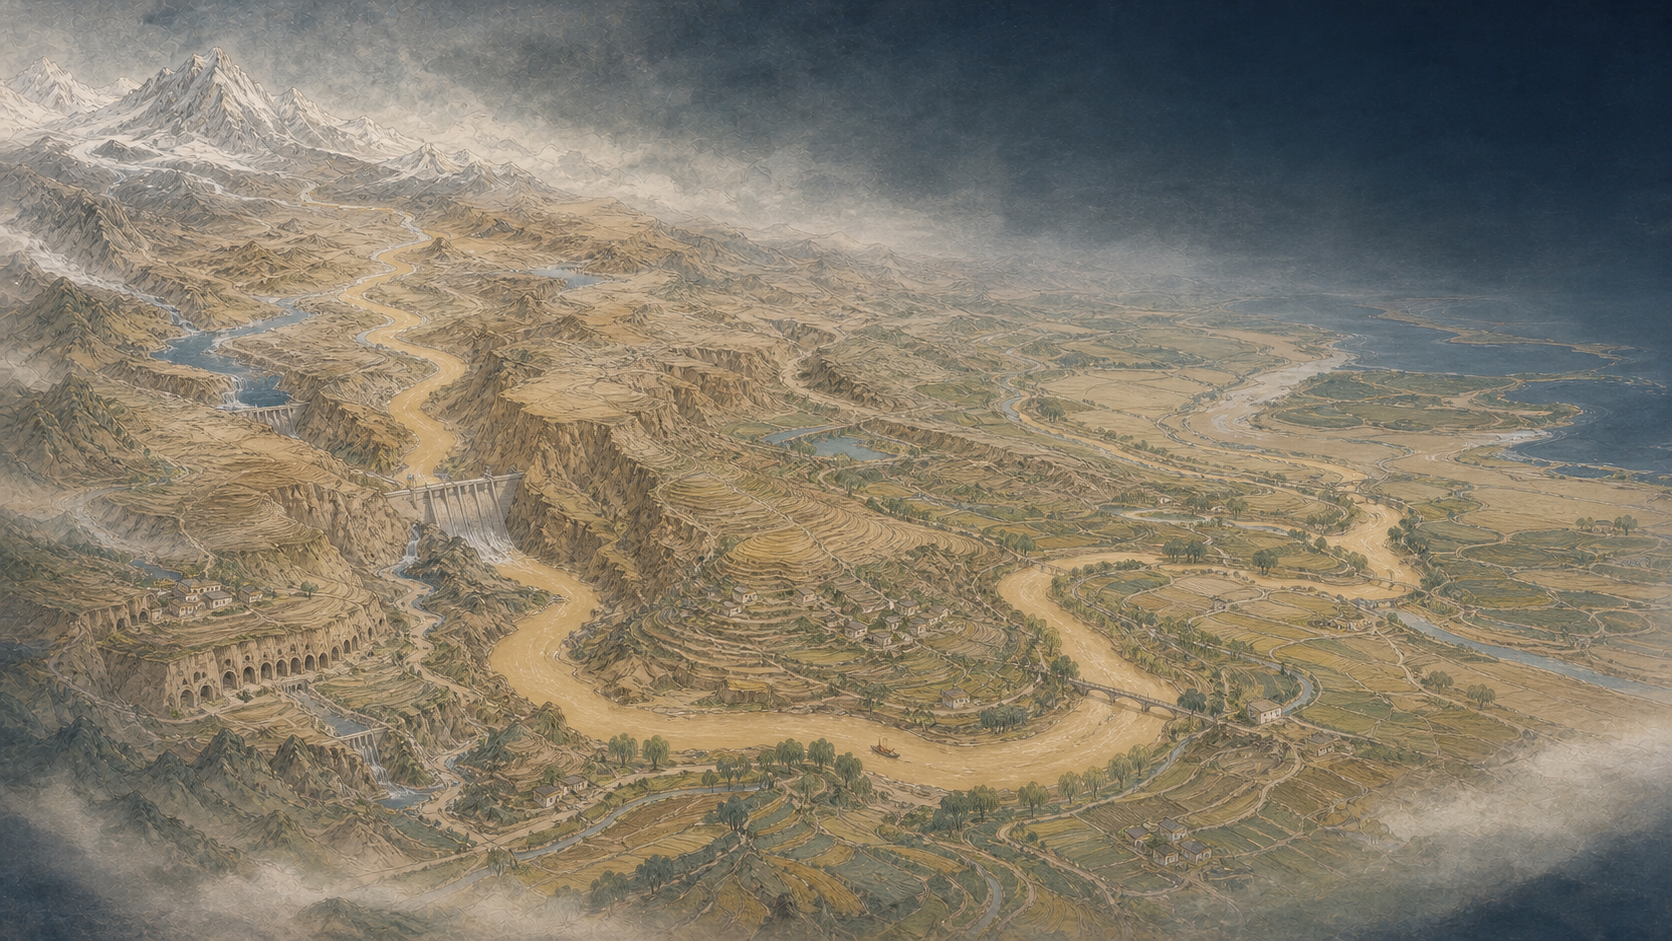
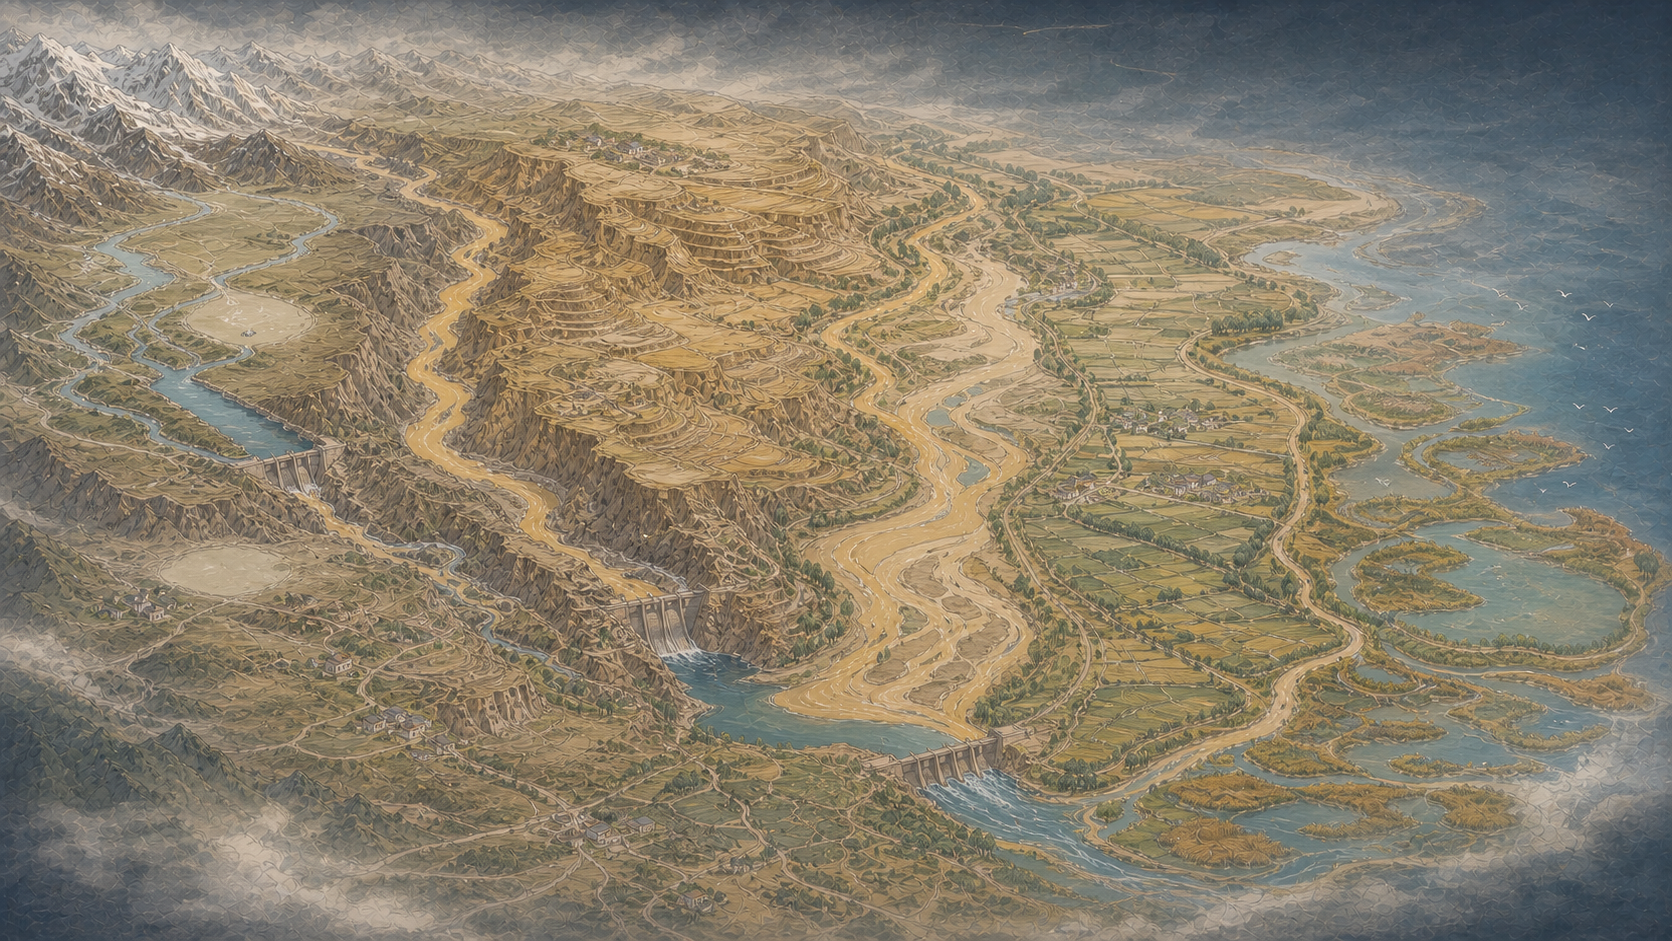
feat: align yellow river with new atlas

diff --git a/src/data/yellowRiverNodes.ts b/src/data/yellowRiverNodes.ts
@@ -4,6 +4,7 @@ import type { YellowRiverNode, YellowRiverNodeId } from '@/types/basin';
 const yellowRiverNodes: YellowRiverNode[] = [
   {
     id: 'sanjiangyuan',
+    sequence: 1,
     name: '三江源国家公园黄河源园区',
     shortName: '三江源',
     type: 'ecological',
@@ -15,11 +16,12 @@ const yellowRiverNodes: YellowRiverNode[] = [
     ecologicalImpacts: ['稳定源区生态过程，有助于维持河流补给与径流节律', '保护关键栖息地，为高原生物多样性保留连续空间'],
     keywords: ['黄河源园区', '高寒草地', '湿地保护', '水源涵养', '生态完整性'],
     significance: '这是黄河水资源形成和生态安全的源头节点，提示治黄必须从源头保护开始。',
-    position: { x: 284, y: 208, labelOffsetX: -28, labelOffsetY: 56 },
+    position: { x: 251, y: 226, labelOffsetX: -44, labelOffsetY: -26 },
     isAvailable: true,
   },
   {
     id: 'longyangxia',
+    sequence: 2,
     name: '龙羊峡水电站',
     shortName: '龙羊峡',
     type: 'engineering',
@@ -33,11 +35,12 @@ const yellowRiverNodes: YellowRiverNode[] = [
     governanceMeasures: ['依托多年调节库容实施削丰补枯，平衡年内与跨年度来水。', '通过水库调度统筹防洪、供水、发电和生态流量，并为下游水沙联合调度提供动力。'],
     ecologicalImpacts: ['形成高峡平湖及湿地、草原、水域复合生态景观。', '在保障生态基流的调度中，为下游河道维持稳定水源。'],
     culturalMeaning: '工程利用高原深切峡谷的自然条件，通过因地制宜、削丰补枯的调度方式，体现了尊重河流节律、因势利导的治水智慧。',
-    position: { x: 372, y: 324, labelOffsetX: -37, labelOffsetY: 56 },
+    position: { x: 301, y: 471, labelOffsetX: -48, labelOffsetY: -28 },
     isAvailable: true,
   },
   {
     id: 'loess-plateau',
+    sequence: 3,
     name: '黄土高原水土流失区',
     shortName: '黄土高原',
     type: 'ecological',
@@ -46,24 +49,12 @@ const yellowRiverNodes: YellowRiverNode[] = [
     summary: '松散黄土、集中降雨、坡地利用和植被变化造成强烈侵蚀，大量泥沙由坡面和沟壑进入黄河。',
     keywords: ['水土流失', '坡面侵蚀', '沟壑侵蚀', '泥沙来源', '退耕还林还草'],
     significance: '这是塑造黄河高含沙特征的核心生态节点。',
-    position: { x: 446, y: 415, labelOffsetX: -58, labelOffsetY: -28 },
-    isAvailable: true,
-  },
-  {
-    id: 'sediment-corridor',
-    name: '泥沙输送通道',
-    shortName: '泥沙通道',
-    type: 'ecological',
-    regionId: 'middle',
-    locationDescription: '黄河中游向下游过渡的主要水沙输移河段',
-    summary: '大量泥沙随水流向下游输移，并通过冲刷、淤积和河道变化持续影响下游河床与洪水风险。',
-    keywords: ['水沙输移', '河道淤积', '冲淤变化', '洪水风险', '分级调控'],
-    significance: '这是连接中游泥沙生成与下游风险累积的过程节点。',
-    position: { x: 540, y: 548, labelOffsetX: -48, labelOffsetY: 53 },
+    position: { x: 652, y: 339, labelOffsetX: -66, labelOffsetY: -28 },
     isAvailable: true,
   },
   {
     id: 'sanmenxia',
+    sequence: 4,
     name: '三门峡工程',
     shortName: '三门峡',
     type: 'engineering',
@@ -77,11 +68,26 @@ const yellowRiverNodes: YellowRiverNode[] = [
     governanceMeasures: ['通过增建排沙设施、改造底孔等方式提高泄流排沙能力。', '确立“蓄清排浑”运行方式：非汛期蓄水兴利，汛期降低水位泄洪排沙。', '与小浪底及支流水库联合调度，为调水调沙提供水动力。'],
     ecologicalImpacts: ['库区河道冲淤逐步趋于动态平衡，潼关高程得到一定控制。', '库区形成较大水域与湿地，为白天鹅等鸟类提供栖息环境。'],
     culturalMeaning: '三门峡的运行演进说明，复杂河流治理需要在实践中认识规律、修正方案；从“拦”到“排”的转变，是知行合一与尊重自然的具体体现。',
-    position: { x: 670, y: 596, labelOffsetX: -35, labelOffsetY: -30 },
+    position: { x: 719, y: 612, labelOffsetX: -50, labelOffsetY: -30 },
+    isAvailable: true,
+  },
+  {
+    id: 'sediment-corridor',
+    sequence: 5,
+    name: '泥沙输送通道',
+    shortName: '泥沙通道',
+    type: 'ecological',
+    regionId: 'middle',
+    locationDescription: '黄河中游向下游过渡的主要水沙输移河段',
+    summary: '大量泥沙随水流向下游输移，并通过冲刷、淤积和河道变化持续影响下游河床与洪水风险。',
+    keywords: ['水沙输移', '河道淤积', '冲淤变化', '洪水风险', '分级调控'],
+    significance: '这是连接中游泥沙生成与下游风险累积的过程节点。',
+    position: { x: 953, y: 480, labelOffsetX: -70, labelOffsetY: -28 },
     isAvailable: true,
   },
   {
     id: 'xiaolangdi',
+    sequence: 6,
     name: '小浪底水利枢纽',
     shortName: '小浪底',
     type: 'engineering',
@@ -96,11 +102,12 @@ const yellowRiverNodes: YellowRiverNode[] = [
     ecologicalImpacts: ['下游主河槽冲刷下切、行洪能力提升，河势趋于稳定。', '持续生态补水有助于维持下游不断流，并促进河口湿地修复与生物多样性改善。', '工程调度对水生态存在复杂影响，仍需要持续监测与精细化调度。'],
     culturalMeaning: '小浪底不是单纯拦蓄洪水，而是在理解水沙规律的基础上利用和塑造洪水过程，体现了统筹兼顾、因势利导的人水和谐实践。',
     // 小浪底位于中游末端、进入下游平原前的控制河段。
-    position: { x: 777, y: 620, labelOffsetX: 20, labelOffsetY: 56 },
+    position: { x: 1053, y: 735, labelOffsetX: -38, labelOffsetY: -30 },
     isAvailable: true,
   },
   {
     id: 'yellow-river-delta-wetland',
+    sequence: 7,
     name: '黄河三角洲国家级自然保护区',
     shortName: '黄河三角洲湿地',
     type: 'ecological',
@@ -112,7 +119,7 @@ const yellowRiverNodes: YellowRiverNode[] = [
     ecologicalImpacts: ['河海连通改善后，湿地生境与食物链更具恢复条件', '稳定的水沙与潮汐过程有助于维持河口湿地的演变活力'],
     keywords: ['黄河入海口', '新生湿地', '候鸟栖息地', '河海连通', '生态补水'],
     significance: '它把上中游的水沙调控结果延伸到河口，展示黄河治理最终如何影响海岸湿地与生物多样性。',
-    position: { x: 1195, y: 482, labelOffsetX: -62, labelOffsetY: 56 },
+    position: { x: 1471, y: 659, labelOffsetX: -122, labelOffsetY: -28 },
     isAvailable: true,
   },
 ];

diff --git a/src/pages/YellowRiver/YellowRiver.css b/src/pages/YellowRiver/YellowRiver.css
@@ -224,13 +224,7 @@
 /* 黄河图册舞台：保留共用详情与长江样式，仅覆盖黄河子页。 */
 .yellow-river-page--atlas {
   padding: 0;
-  background:
-    linear-gradient(90deg, rgb(5 17 24 / 14%), transparent 28%, transparent 72%, rgb(4 16 23 / 20%)),
-    linear-gradient(0deg, rgb(4 16 22 / 18%), transparent 42%),
-    var(--yellow-river-page-background);
-  background-position: center;
-  background-size: cover;
-  background-attachment: fixed;
+  background: #10262e;
 }
 
 .yellow-river-page--atlas .yellow-river-page__header {
@@ -271,25 +265,31 @@
 
 .yellow-river-page--atlas .yellow-river-map--atlas {
   width: 100%;
+  aspect-ratio: 1672 / 941;
   max-height: none;
-  overflow: visible;
+  overflow: hidden;
   border: 0;
   border-radius: 0;
-  background: transparent;
+  background: #162f36;
   box-shadow: none;
 }
 
-.yellow-river-map--atlas svg { overflow: visible; filter: drop-shadow(0 .8rem 1.3rem rgb(20 12 3 / 18%)); }
+.yellow-river-map--atlas svg { overflow: hidden; filter: drop-shadow(0 .8rem 1.3rem rgb(20 12 3 / 18%)); }
+.yellow-river-map--atlas .yellow-river-map__background { pointer-events: none; }
+.yellow-river-map--atlas .yellow-river-map__background-shade {
+  pointer-events: none;
+  fill: url(#yellow-river-atlas-shade);
+}
 .yellow-river-map--atlas .yellow-river-map__waterway path,
 .yellow-river-map--atlas .yellow-river-map__atlas-region-water { fill: none; stroke-linecap: round; stroke-linejoin: round; }
-.yellow-river-map--atlas .yellow-river-map__waterway-bed { stroke: rgb(86 51 19 / 38%); stroke-width: 24; }
-.yellow-river-map--atlas .yellow-river-map__waterway-body { stroke: rgb(203 151 64 / 72%); stroke-width: 15; }
-.yellow-river-map--atlas .yellow-river-map__waterway-glint { stroke: rgb(255 229 160 / 74%); stroke-width: 3.2; stroke-dasharray: 7 13; }
+.yellow-river-map--atlas .yellow-river-map__waterway-bed { stroke: rgb(95 59 22 / 10%); stroke-width: 12; }
+.yellow-river-map--atlas .yellow-river-map__waterway-body { stroke: rgb(209 159 75 / 27%); stroke-width: 6; }
+.yellow-river-map--atlas .yellow-river-map__waterway-glint { stroke: rgb(255 239 194 / 36%); stroke-width: 1; }
 .yellow-river-map__atlas-region { cursor: pointer; outline: none; color: #efc76f; }
-.yellow-river-map__atlas-region-hit-area { fill: none; stroke: transparent; stroke-width: 44; }
-.yellow-river-map__atlas-region-water { stroke: transparent; stroke-width: 19; opacity: 0; transition: opacity 180ms ease, stroke 180ms ease, filter 180ms ease; }
-.yellow-river-map__atlas-region.is-visible .yellow-river-map__atlas-region-water { stroke: currentColor; opacity: .76; filter: drop-shadow(0 0 7px currentColor); }
-.yellow-river-map__atlas-region.is-selected .yellow-river-map__atlas-region-water { opacity: .94; }
+.yellow-river-map__atlas-region-hit-area { fill: none; stroke: transparent; stroke-width: 52; }
+.yellow-river-map__atlas-region-water { stroke: transparent; stroke-width: 11; opacity: 0; transition: opacity 180ms ease, stroke 180ms ease; }
+.yellow-river-map__atlas-region.is-visible .yellow-river-map__atlas-region-water { stroke: currentColor; opacity: .34; }
+.yellow-river-map__atlas-region.is-selected .yellow-river-map__atlas-region-water { opacity: .48; }
 .yellow-river-map__atlas-region:focus-visible .yellow-river-map__atlas-region-water { stroke: #fff0b7; opacity: 1; }
 .yellow-river-map__atlas-region .yellow-river-map__region-label { fill: rgb(249 232 182 / 84%); stroke: rgb(48 28 8 / 72%); stroke-width: 4px; font-size: 25px; }
 .yellow-river-map__atlas-region .yellow-river-map__region-label { pointer-events: all; cursor: pointer; }

diff --git a/src/pages/YellowRiver/YellowRiver.tsx b/src/pages/YellowRiver/YellowRiver.tsx
@@ -1,6 +1,5 @@
 import { useMemo, useState } from 'react';
 import { Link, useLocation } from 'react-router-dom';
-import type { CSSProperties } from 'react';
 
 import { yellowRiverRegions } from '@/data/yellowRiverRegions';
 import { yellowRiverGovernanceNodeIds, yellowRiverNodes } from '@/data/yellowRiverNodes';
@@ -11,8 +10,6 @@ import YellowRiverMap from './components/YellowRiverMap';
 import YellowRiverNodeDetailPanel from './components/YellowRiverNodeDetailPanel';
 import YellowRiverGovernancePanel from './components/YellowRiverGovernancePanel';
 import YellowRiverSpiritDialogue from './components/YellowRiverSpiritDialogue';
-import yellowRiverBackground from '@/assets/images/basins/yellow-river-background.png';
-
 import './YellowRiver.css';
 
 function hasDetailContent(node: YellowRiverNode): boolean {
@@ -29,7 +26,7 @@ function hasDetailContent(node: YellowRiverNode): boolean {
 const detailNodes = yellowRiverNodes
   .filter(hasDetailContent)
   .slice()
-  .sort((firstNode, secondNode) => firstNode.position.x - secondNode.position.x);
+  .sort((firstNode, secondNode) => firstNode.sequence - secondNode.sequence);
 
 const governanceNodes = yellowRiverGovernanceNodeIds
   .map((nodeId) => detailNodes.find((node) => node.id === nodeId))
@@ -136,12 +133,8 @@ function YellowRiver() {
   const governanceLevel = selectedDetailNode
     ? governanceDataSource.getQuestionLevelConfig(selectedDetailNode.id)
     : null;
-  const pageStyle = {
-    '--yellow-river-page-background': `url(${yellowRiverBackground})`,
-  } as CSSProperties;
-
   return (
-    <section className="yellow-river-page yellow-river-page--atlas" style={pageStyle}>
+    <section className="yellow-river-page yellow-river-page--atlas">
       <header className="yellow-river-page__header">
         <Link className="yellow-river-page__back" to="/basins" state={{ basinOverviewEntry: 'returning' }}>
           返回中国流域总览

diff --git a/src/data/yellowRiverMapPaths.ts b/src/data/yellowRiverMapPaths.ts
@@ -1,18 +1,20 @@
 import type { YellowRiverRegionId } from '@/types/basin';
 
-/** 坐标与黄河底图的山地—峡谷—平原—河口叙事对齐，仅用于互动引导。 */
-const yellowRiverMainstreamPath = 'M284 208 C354 222 366 250 331 282 C304 308 341 331 390 341 C440 351 461 384 434 424 C407 463 424 495 466 524 C513 557 539 582 588 587 C655 596 706 628 776 620 C854 611 879 566 935 548 C1030 518 1121 526 1209 472';
+/**
+ * 坐标直接使用黄河长卷底图的 1672 × 941 画布；水脉只作互动引导，沿图中河道从源区贯通至河口。
+ */
+const yellowRiverMainstreamPath = 'M185 178 C207 198 233 214 251 226 C270 286 277 402 301 471 C361 452 468 372 548 350 C588 333 623 329 652 339 C686 393 689 540 719 612 C775 613 860 530 953 480 C1008 524 1021 662 1053 735 C1146 742 1316 678 1471 659';
 
 const mainstreamSegmentPaths: Record<YellowRiverRegionId, string> = {
-  upper: 'M284 208 C354 222 366 250 331 282 C304 308 341 331 390 341 C440 351 461 384 434 424',
-  middle: 'M434 424 C407 463 424 495 466 524 C513 557 539 582 588 587 C655 596 706 628 776 620',
-  lower: 'M776 620 C854 611 879 566 935 548 C1030 518 1121 526 1209 472',
+  upper: 'M185 178 C207 198 233 214 251 226 C270 286 277 402 301 471 C354 457 424 404 492 383',
+  middle: 'M492 383 C548 350 588 333 652 339 C686 393 689 540 719 612 C775 613 860 530 953 480 C1008 524 1021 662 1053 735',
+  lower: 'M1053 735 C1146 742 1316 678 1471 659',
 };
 
 const regionLabelPositions: Record<YellowRiverRegionId, { x: number; y: number }> = {
-  upper: { x: 358, y: 260 },
-  middle: { x: 633, y: 500 },
-  lower: { x: 1010, y: 450 },
+  upper: { x: 332, y: 318 },
+  middle: { x: 766, y: 412 },
+  lower: { x: 1292, y: 592 },
 };
 
 export { mainstreamSegmentPaths, regionLabelPositions, yellowRiverMainstreamPath };

diff --git a/src/pages/YellowRiver/components/YellowRiverMap.tsx b/src/pages/YellowRiver/components/YellowRiverMap.tsx
@@ -6,6 +6,7 @@ import {
 import { yellowRiverNodes } from '@/data/yellowRiverNodes';
 import { yellowRiverRegions } from '@/data/yellowRiverRegions';
 import type { YellowRiverNodeId, YellowRiverRegionId } from '@/types/basin';
+import yellowRiverBackground from '@/assets/images/basins/yellow-river-background.png';
 
 import YellowRiverNodeLayer from './YellowRiverNodeLayer';
 
@@ -41,7 +42,24 @@ function YellowRiverMap({
 
   return (
     <div className="yellow-river-map yellow-river-map--atlas" aria-label="黄河上游、中游、下游互动水脉地图">
-      <svg viewBox="0 0 1400 800" role="img" aria-label="可选择黄河上游、中游和下游的黄河水脉地图">
+      <svg viewBox="0 0 1672 941" preserveAspectRatio="xMidYMid meet" role="img" aria-label="可选择黄河上游、中游和下游的黄河水脉地图">
+        <defs>
+          <radialGradient id="yellow-river-atlas-shade" cx="50%" cy="44%" r="76%">
+            <stop offset="56%" stopColor="#071b22" stopOpacity="0" />
+            <stop offset="100%" stopColor="#071b22" stopOpacity="0.3" />
+          </radialGradient>
+        </defs>
+        <image
+          className="yellow-river-map__background"
+          href={yellowRiverBackground}
+          x="0"
+          y="0"
+          width="1672"
+          height="941"
+          preserveAspectRatio="xMidYMid meet"
+          aria-hidden="true"
+        />
+        <rect className="yellow-river-map__background-shade" x="0" y="0" width="1672" height="941" aria-hidden="true" />
         <g className="yellow-river-map__waterway" aria-hidden="true">
           <path className="yellow-river-map__waterway-bed" d={yellowRiverMainstreamPath} />
           <path className="yellow-river-map__waterway-body" d={yellowRiverMainstreamPath} />

diff --git a/src/types/basin.ts b/src/types/basin.ts
@@ -69,7 +69,11 @@ export interface RiverNode {
   isAvailable: boolean;
 }
 
-export type YellowRiverNode = RiverNode & { id: YellowRiverNodeId };
+export type YellowRiverNode = RiverNode & {
+  id: YellowRiverNodeId;
+  /** 沿河叙事顺序；详情切换与无障碍阅读不依赖画布横向坐标。 */
+  sequence: number;
+};
 
 export type YangtzeRiverNode = RiverNode;
 
